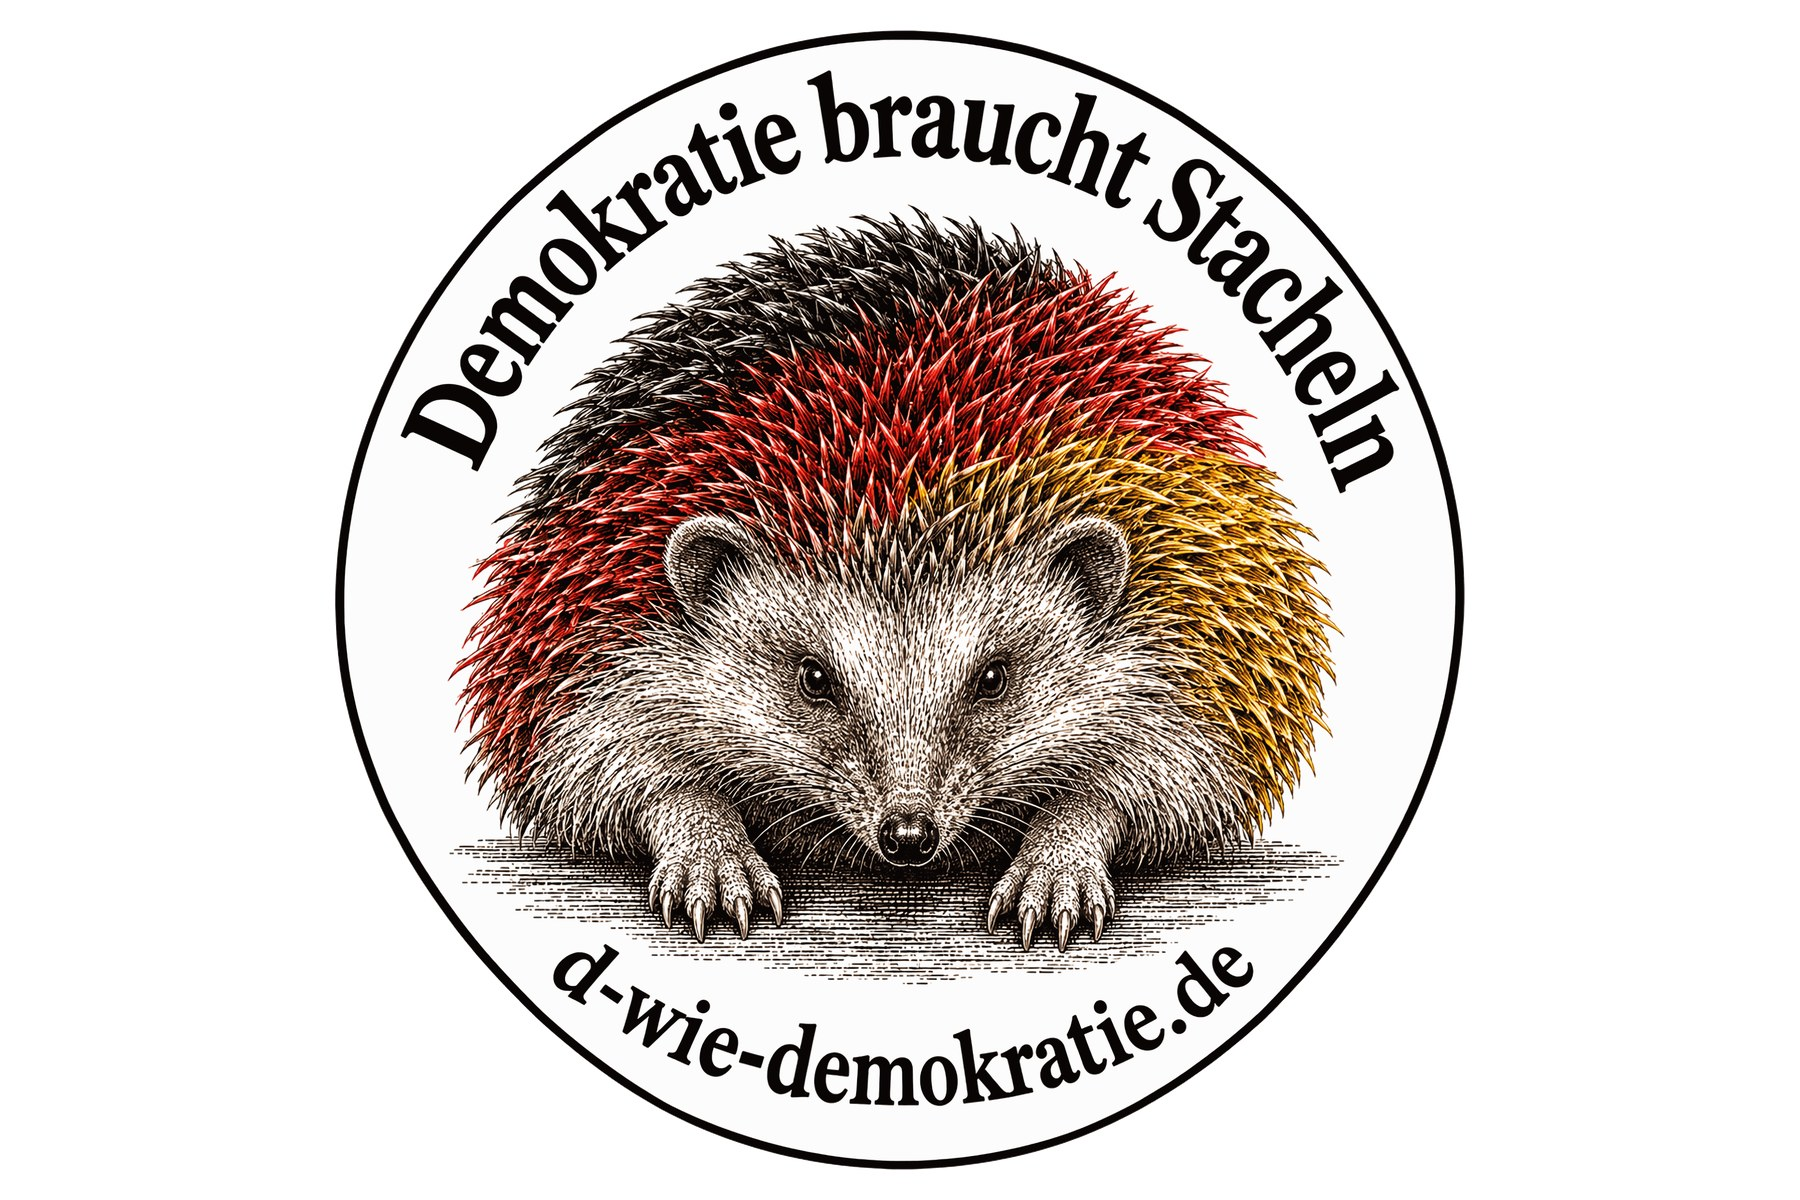
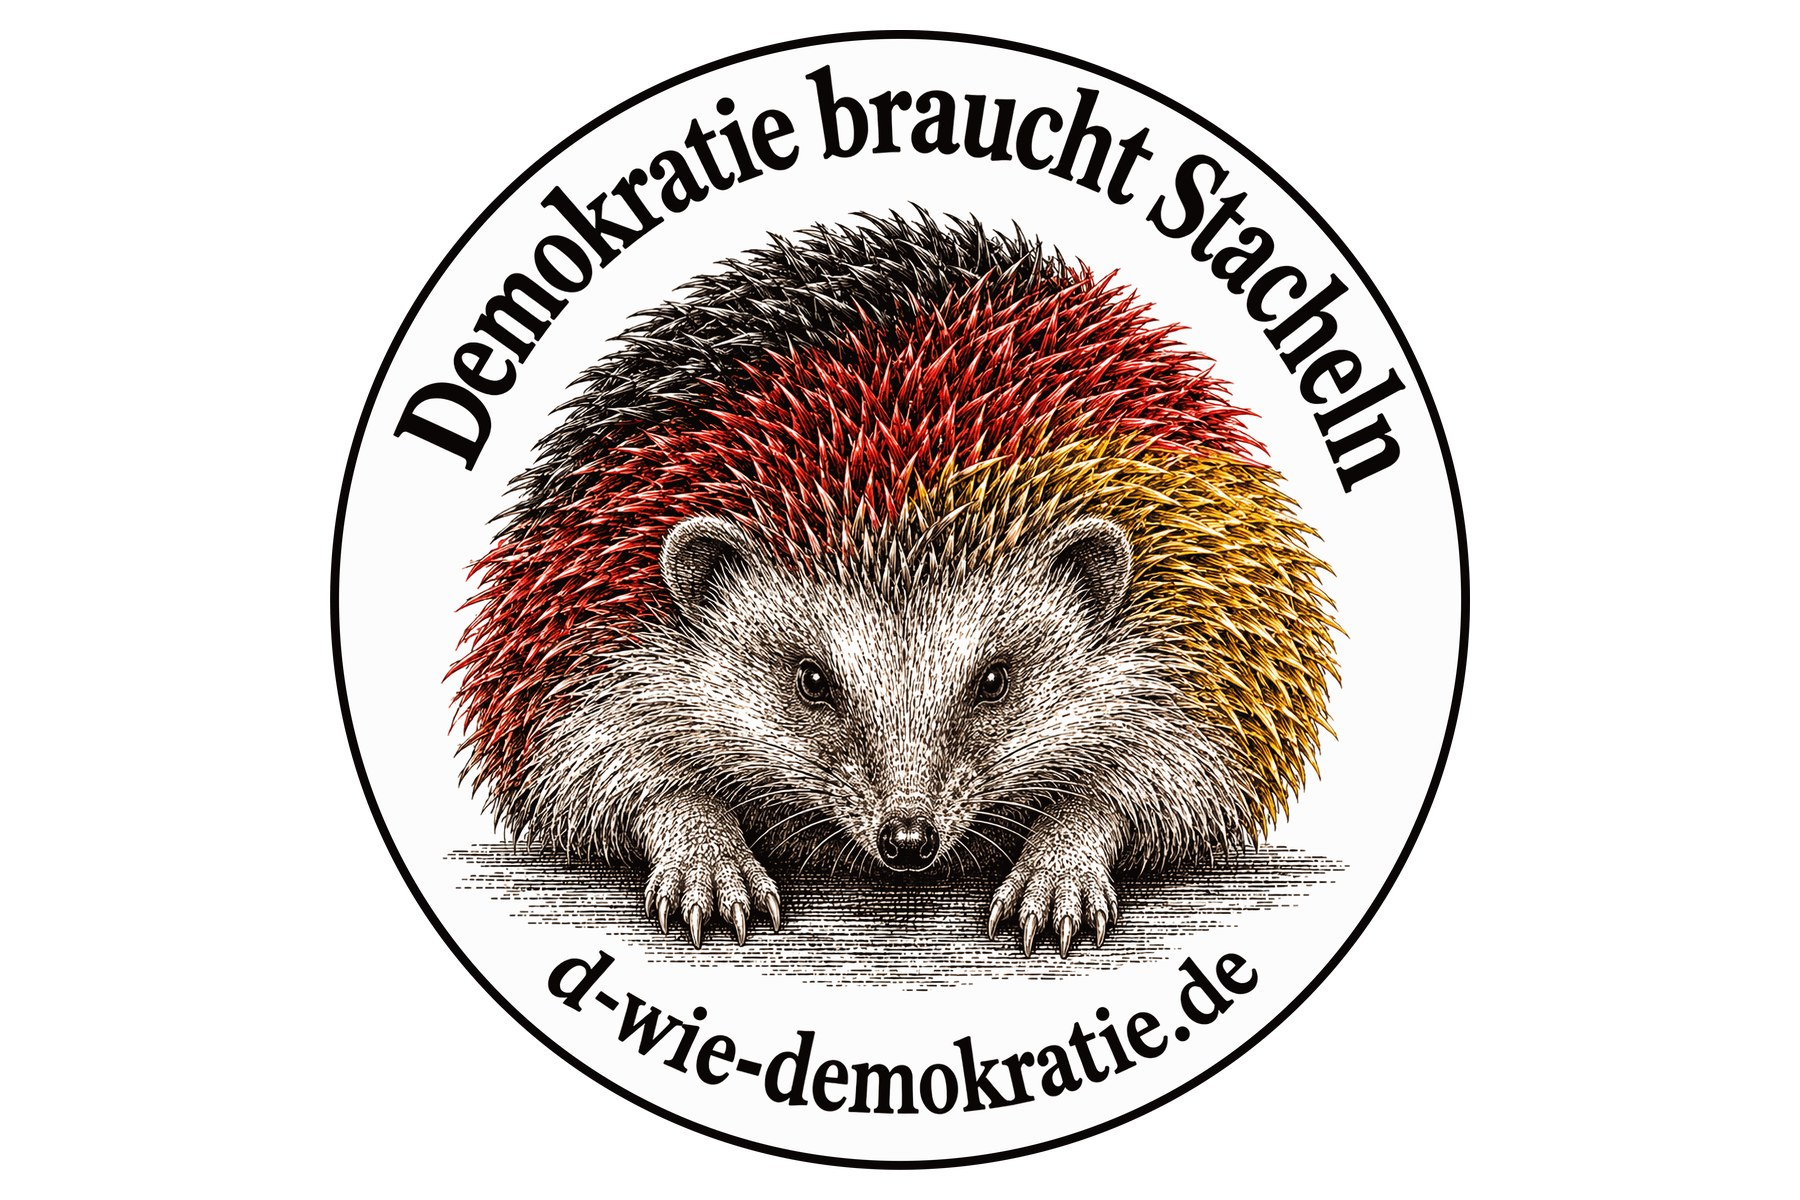
Runde Motive 3–10, 12: Außenring exakt kreisrund (Website-PNGs, Downloads, Slider), Skript kreis-rund.py

Changed region(s): [[0.1556, 0.0308, 0.8089, 0.9558], [0.7778, 0.4317, 0.84, 0.7092], [0.4356, 0.9558, 0.4667, 0.9867]]

diff --git a/scripts/kreis-rund.py b/scripts/kreis-rund.py
@@ -1,0 +1,94 @@
+# Aufruf: python3 scripts/kreis-rund.py <eingabe.png> <ausgabe.png>
+# Ersetzt den welligen äußeren Ring eines runden KI-Motivs durch einen exakt runden Ring gleicher Stärke (2026-11-23, Motive 3–10, 12 für die Website).
+# Macht den äußeren Ring eines runden Motivs exakt kreisrund.
+import sys, math
+from PIL import Image, PngImagePlugin
+src, dst = sys.argv[1], sys.argv[2]
+im = Image.open(src); info = dict(im.info); im = im.convert('RGBA')
+W, H = im.size; px = im.load()
+lum = lambda p: 0.299*p[0]+0.587*p[1]+0.114*p[2]
+# grober Mittelpunkt aus der Begrenzung
+l,t,r,b = im.getchannel('A').point(lambda v:255 if v>128 else 0).getbbox()
+cx0, cy0 = (l+r)/2, (t+b)/2
+N = 720
+def aussen(cx, cy):
+    pts=[]
+    for k in range(N):
+        a=2*math.pi*k/N; ca,sa=math.cos(a),math.sin(a)
+        rr=None
+        for s in range(int(min(W,H)*0.75), 0, -1):
+            x=int(cx+s*ca); y=int(cy+s*sa)
+            if 0<=x<W and 0<=y<H and px[x,y][3]>128: rr=s; break
+        pts.append((cx+rr*ca, cy+rr*sa, rr))
+    return pts
+pts = aussen(cx0, cy0)
+# Kreis-Anpassung (Kasa): x²+y² + D x + E y + F = 0
+Sx=Sy=Sxx=Syy=Sxy=Sz=Sxz=Syz=0.0; n=len(pts)
+for x,y,_ in pts:
+    z=x*x+y*y; Sx+=x; Sy+=y; Sxx+=x*x; Syy+=y*y; Sxy+=x*y; Sz+=z; Sxz+=x*z; Syz+=y*z
+A=[[Sxx,Sxy,Sx],[Sxy,Syy,Sy],[Sx,Sy,n]]; B=[-Sxz,-Syz,-Sz]
+def det(m): return (m[0][0]*(m[1][1]*m[2][2]-m[1][2]*m[2][1])-m[0][1]*(m[1][0]*m[2][2]-m[1][2]*m[2][0])+m[0][2]*(m[1][0]*m[2][1]-m[1][1]*m[2][0]))
+d=det(A); sol=[]
+for i in range(3):
+    M=[row[:] for row in A]
+    for j in range(3): M[j][i]=B[j]
+    sol.append(det(M)/d)
+D,E,F=sol; cx,cy=-D/2,-E/2; R=math.sqrt(cx*cx+cy*cy-F)
+pts = aussen(cx, cy)
+radien=[p[2] for p in pts]
+# Ringstärke: dunkle Pixel vom Außenrand nach innen
+dicken=[]
+for k in range(0,N,4):
+    a=2*math.pi*k/N; ca,sa=math.cos(a),math.sin(a); s=radien[k]; c=0
+    while s>0:
+        p=px[int(cx+s*ca),int(cy+s*sa)]
+        if p[3]>128 and lum(p)<110: c+=1; s-=1
+        elif c==0: s-=1
+        else: break
+    dicken.append(c)
+dicken.sort(); T=dicken[len(dicken)//2]
+dunkel=[px[int(cx+(radien[k]-T/2)*math.cos(2*math.pi*k/N)),int(cy+(radien[k]-T/2)*math.sin(2*math.pi*k/N))] for k in range(0,N,8)]
+dunkel.sort(key=lum); ring=dunkel[len(dunkel)//2][:3]
+abw=max(abs(x-R) for x in radien)
+# Innenkante des alten Rings je Richtung (dunkler Lauf von außen nach innen, mit Kantenglättung)
+innen=[]
+for k in range(N):
+    a_=2*math.pi*k/N; ca,sa=math.cos(a_),math.sin(a_); s=radien[k]; gesehen=False; lauf=0
+    while s>radien[k]-3*T:
+        p=px[int(cx+s*ca),int(cy+s*sa)]
+        if p[3]>128 and lum(p)<200: gesehen=True; lauf=0
+        elif gesehen:
+            lauf+=1
+            if lauf>=2: break
+        s-=1
+    innen.append(max(s+lauf, radien[k]-int(1.6*T)-3))  # nie tiefer als die übliche Ringstärke (Inhalt am Ring schützen)
+
+print(f'Mitte {cx:.0f},{cy:.0f} R {R:.0f} Ring {T} Abweichung max {abw:.0f}px Ringfarbe {ring}')
+innen_weiss=(255,255,255)
+# neues Bild: Fläche bis R+abw+4 bearbeiten
+r_in_neu=R-T
+for y in range(max(0,int(cy-R-abw-6)), min(H,int(cy+R+abw+6))):
+    for x in range(max(0,int(cx-R-abw-6)), min(W,int(cx+R+abw+6))):
+        dx=x+0.5-cx; dy=y+0.5-cy; rr=math.hypot(dx,dy)
+        if rr < r_in_neu - abw - 2*T - 6: continue
+        k=int((math.atan2(dy,dx)%(2*math.pi))/(2*math.pi)*N)%N
+        alt_aussen=radien[k]
+        aussen_cov=max(0.0,min(1.0,R-rr+0.5))      # Anteil innerhalb des neuen Außenrands
+        ring_cov=max(0.0,min(1.0,rr-r_in_neu+0.5))  # Anteil außerhalb des neuen Innenrands
+        if aussen_cov<=0: px[x,y]=(0,0,0,0); continue
+        p=px[x,y]
+        if ring_cov>0:
+            # im neuen Ring (mit Kantenglättung zur Innenseite)
+            base = p if rr<innen[k]-3 else (innen_weiss+(255,))
+            base = base if base[3]>0 else (innen_weiss+(255,))
+            c=tuple(int(ring[i]*ring_cov+base[i]*(1-ring_cov)) for i in range(3))
+            px[x,y]=c+(int(255*aussen_cov),)
+        else:
+            # innerhalb des neuen Rings: Reste des alten Rings weiß machen
+            if rr>=innen[k]-3 or p[3]<255:
+                px[x,y]=innen_weiss+(255,)
+q=im.quantize(256,method=Image.Quantize.FASTOCTREE,dither=Image.Dither.NONE).convert('RGBA')
+pi=PngImagePlugin.PngInfo()
+for k_,v in info.items():
+    if isinstance(v,str): pi.add_itxt(k_,v)
+q.save(dst,optimize=True,icc_profile=info.get('icc_profile'),pnginfo=pi)

diff --git a/CLAUDE.md b/CLAUDE.md
@@ -24,7 +24,7 @@ Push to `main` triggers GitHub Actions (`.github/workflows/deploy.yml`), which b
 
 - `src/layouts/Layout.astro`: shared `<head>` (meta, Open Graph, Umami script), sticky header with black-red-gold stripe and tab navigation, footer links. Global CSS variables live here. Also holds the tab order (`reiter`) used for swiping between tabs on mobile and for the slide animation (native cross-document View Transitions, only on touch devices); a new tab must be added there as well as in the nav. The ☰ menu at the right of the header lists all pages (array `menue`, plus Impressum/Datenschutz in `menueKlein`); a new page without its own tab only goes there, and such a page gets its own red-underlined tab for the current page (`aktuell`): on phones it replaces „Motive“ (short name `handy`, e.g. „Einreichen“, „Geschichte“), from 700 px it sits after „Motive“ (name `kurz`, e.g. „Flaggengeschichte“). Tabs since 2026-11-18: logo (start), Fragen, Verbündete, Motive; „Mitmachen“ and „Unterstützen“ are only in the ☰ menu. These tabs are not part of `reiter`/swiping. Pages not in the menu (Statistik) mark the ☰ with the red bar instead. Header widths are tuned so everything fits from 320 px; re-measure after changing tab names.
 - `src/pages/index.astro`: landing page: photo slider at the top (crossfade every few seconds; arrows ‹ › beside the line „Motiv N von M“ below and the arrow keys step through and stop it, since 2026-11-22 instead of dots; no swipe, that switches tabs; `bilder` array at the top, files in `src/assets/slider/`, new ones 1800 × 1200 px JPEG named `motiv-<nr>-<was>.jpg`; each photo links to `/motive/#motiv-<nr>` of the motif it shows; since 2026-11-21 a mix of two AI photos and three motif slides (`07-motiv-7.jpg` etc., since 2026-11-22 motif as large as possible on white without text, built from the print PNGs with `scripts/slider-querformate.py`; the line below each image („Motiv <nr> von <anzahl>“) is HTML, field `text` in `bilder`, no AI label); the AI photos are to be replaced by real photos of shirts; the AI photos carry the visible "KI-generiert" note (Art. 50 AI Act, must stay visible, not behind a click) for entries with `foto: true`), then visible h1 „Wir zeigen Flagge“, the values with links to Art. 1–5 GG, a box styled as the flag (black-red-gold stripes, with the 1990 Reichstag photo as a grey watermark; its credit sits below the box) that rotates quotes (array `zitate` at the top: Klopp, Steinmeier …; each with an `id` such as `zitat-aigner`, so `/#zitat-aigner` shows that quote and stops the rotation; each with a button to the video or speech, only linked, not embedded; Klopp's video also linked in FAQ `#farben`), then a preview of all motifs (thumbnails of the first version, each linking to `/motive/#motiv-<nr>`; later only the newest). Old anchors `/#motiv-<nr>`, `/#motive`, `/#herunterladen` and `/#shop` are forwarded to `/motive/` by an inline script.
-- `src/pages/motive.astro`: tab „Motive“ (since 2026-11-18): intro (we want many motifs, from children, artists, designers …; link to „Motiv einreichen“), then two accordion questions (`<details>`, `#herunterladen` and `#shop` open them; download terms: print and share freely, don't alter; shop: Spreadshop by Spreadshirt (Leipzig) https://d-wie-demokratie.myspreadshop.de/, set up as Non-Profit-Shop (margin 0, customer pays Spreadshirt's base price), only organic-cotton textiles (mostly Stanley/Stella); Spreadshirt is the seller, 30-day return/exchange; linked from the question (button) and per motif or per version (`shop` in `liste` or in a `varianten` entry, `/all?mainDesignId=<id>`; switch `shopAktiv`), not embedded, so the site stays free of third-party cookies; biotshirt (YTWOO, Düsseldorf) was linked 2026-11-12 to 2026-11-18 and dropped because it accepts no returns (texts in commit 7918eb7); wording rule: never call products „GOTS-zertifiziert“, only say what the product pages state, e.g. „aus Bio-Baumwolle“) then the numbered motifs one under another (list `liste` in `src/data/motive.ts`, shared with the landing-page preview, each linkable via `/motive/#motiv-<nr>`), each with links to PNG, PDF and its shop search. Per motif: PNG `src/assets/motive/d-wie-demokratie-motiv-<nr>.png` (4000 px, transparent; thumbnail and download) and PDF `public/download/d-wie-demokratie-motiv-<nr>.pdf` (CMYK); a motif only shows once its PNG exists, a missing PDF or shop link just drops that link. Klaus keeps all motif files (PDF and PNG, same name) in `motive/` (gitignored working folder, a mirror of the published files) and exports there from Affinity; when he says so, Claude compares it with `src/assets/motive/` and `public/download/`, checks only new or changed files (size, transparency, sRGB, PDF/X-4, FOGRA39, exact CMYK values, no layers, no images) and copies them over. Numbers are only given to finished motifs (print PNG exists), in order of completion; drafts never get a number. A draft has `bald: true` and `id` (anchor `/motive/#<id>`, preview file `src/assets/motive/bald/<id>.png`, Klaus's AI draft with the white outside made transparent), shows without number below the finished motifs with a gold „Kommt bald“ badge instead of download/shop links, and is left out of the landing-page preview (none at the moment; the blackbird „Oh Ei, oh Ei!“ was dropped 2026-11-21 as too negative). When a draft is finished: delete `bald`/`id`, give it the next free `nr`, put the PNG in place. Motiv 3 „Gesunde Vielfalt“ (until 2026-11-21 „Vitamin D“, same fruit picture), 4 „Demokratie braucht Schutz“ 5 „Demokratie braucht Stacheln“ 6 „Demokratie braucht Schärfe“ 7 „Dackel lieben Demokratie“ 8 „Farbe bekennen!“ 9 „Alles wird Hut“ 10 „Keine Angst, Hasen!“ 11 „Entchen gut, alles gut“ (oval, 4000 × 2667) 12 „Hinschauen. Zuhören. Mund aufmachen.“ (2026-11-21) 13 „DEMO“ (2026-11-22, banner carried by walking letters KRATIE; URL set by Klaus in Affinity; `-dunkel` = same on a white rounded rectangle, since the black letters vanish on dark fabric) and 14 „Schnurren war gestern“ (2026-11-22, woodcut tiger, text set by Klaus in Affinity; `-dunkel` = text white) are PNG only, with embedded metadata (title, creator D wie Demokratie, contact info@d-wie-demokratie.de, usage note „frei drucken und teilen, nicht verändern“ in the copyright field; no © claim since purely AI-generated images are generally not protected in Germany) (ChatGPT image, upscaled to 4000 px in Photoshop with „Details erhalten 2.0“, white outside made transparent, reduced to 256 colours to stay under Spreadshirt's 10 MB limit). A motif can have several versions (`varianten` in `liste`, each with an `endung`; `versteckt: true` hides a version while its files stay, used since 2026-11-18 for both `-farbig` versions such as `-qr-weiss` or `-dunkel`, a button name and a short text): files `d-wie-demokratie-motiv-<nr><endung>.png` (in `src/assets/motive/`) and `.pdf` (in `public/download/`), same name, only the extension differs; buttons switch between them (without JS all are listed), each version is previewed on a checkerboard in the tone of the fabric it is meant for (since 2026-11-23, shows transparency): light checkerboard for „helle“ versions, blue-grey for „alle“ versions and for the single-version round motifs 3–12, anthracite for „dunkle“ (`grundStoff`, `karo()`, `einzelStoff()` in motive.astro); `-farbig` („Für mittlere Untergründe“) mid blue, `-dunkel` („Für dunkle Untergründe“, with white outline) anthracite (map `stoff`), or an explicit `stoff` per version (Motiv 1 „Für alle Untergründe“, white oval: mid blue-grey). PDF links carry a content hash (`?v=`) so a replaced PDF is never served from browser cache. `public/download/d-wie-demokratie-oval.png/.pdf` are kept for old links.
+- `src/pages/motive.astro`: tab „Motive“ (since 2026-11-18): intro (we want many motifs, from children, artists, designers …; link to „Motiv einreichen“), then two accordion questions (`<details>`, `#herunterladen` and `#shop` open them; download terms: print and share freely, don't alter; shop: Spreadshop by Spreadshirt (Leipzig) https://d-wie-demokratie.myspreadshop.de/, set up as Non-Profit-Shop (margin 0, customer pays Spreadshirt's base price), only organic-cotton textiles (mostly Stanley/Stella); Spreadshirt is the seller, 30-day return/exchange; linked from the question (button) and per motif or per version (`shop` in `liste` or in a `varianten` entry, `/all?mainDesignId=<id>`; switch `shopAktiv`), not embedded, so the site stays free of third-party cookies; biotshirt (YTWOO, Düsseldorf) was linked 2026-11-12 to 2026-11-18 and dropped because it accepts no returns (texts in commit 7918eb7); wording rule: never call products „GOTS-zertifiziert“, only say what the product pages state, e.g. „aus Bio-Baumwolle“) then the numbered motifs one under another (list `liste` in `src/data/motive.ts`, shared with the landing-page preview, each linkable via `/motive/#motiv-<nr>`), each with links to PNG, PDF and its shop search. Per motif: PNG `src/assets/motive/d-wie-demokratie-motiv-<nr>.png` (4000 px, transparent; thumbnail and download) and PDF `public/download/d-wie-demokratie-motiv-<nr>.pdf` (CMYK); a motif only shows once its PNG exists, a missing PDF or shop link just drops that link. Klaus keeps all motif files (PDF and PNG, same name) in `motive/` (gitignored working folder, a mirror of the published files) and exports there from Affinity; when he says so, Claude compares it with `src/assets/motive/` and `public/download/`, checks only new or changed files (size, transparency, sRGB, PDF/X-4, FOGRA39, exact CMYK values, no layers, no images) and copies them over. Numbers are only given to finished motifs (print PNG exists), in order of completion; drafts never get a number. A draft has `bald: true` and `id` (anchor `/motive/#<id>`, preview file `src/assets/motive/bald/<id>.png`, Klaus's AI draft with the white outside made transparent), shows without number below the finished motifs with a gold „Kommt bald“ badge instead of download/shop links, and is left out of the landing-page preview (none at the moment; the blackbird „Oh Ei, oh Ei!“ was dropped 2026-11-21 as too negative). Since 2026-11-23 the website PNGs of the round motifs 3–10 and 12 have an exactly circular outer ring (made with `scripts/kreis-rund.py`, the AI rings were wavy); the files in `motive/` and the Spreadshop designs still have the old rings until Klaus reworks each motif. When a draft is finished: delete `bald`/`id`, give it the next free `nr`, put the PNG in place. Motiv 3 „Gesunde Vielfalt“ (until 2026-11-21 „Vitamin D“, same fruit picture), 4 „Demokratie braucht Schutz“ 5 „Demokratie braucht Stacheln“ 6 „Demokratie braucht Schärfe“ 7 „Dackel lieben Demokratie“ 8 „Farbe bekennen!“ 9 „Alles wird Hut“ 10 „Keine Angst, Hasen!“ 11 „Entchen gut, alles gut“ (oval, 4000 × 2667) 12 „Hinschauen. Zuhören. Mund aufmachen.“ (2026-11-21) 13 „DEMO“ (2026-11-22, banner carried by walking letters KRATIE; URL set by Klaus in Affinity; `-dunkel` = same on a white rounded rectangle, since the black letters vanish on dark fabric) and 14 „Schnurren war gestern“ (2026-11-22, woodcut tiger, text set by Klaus in Affinity; `-dunkel` = text white) are PNG only, with embedded metadata (title, creator D wie Demokratie, contact info@d-wie-demokratie.de, usage note „frei drucken und teilen, nicht verändern“ in the copyright field; no © claim since purely AI-generated images are generally not protected in Germany) (ChatGPT image, upscaled to 4000 px in Photoshop with „Details erhalten 2.0“, white outside made transparent, reduced to 256 colours to stay under Spreadshirt's 10 MB limit). A motif can have several versions (`varianten` in `liste`, each with an `endung`; `versteckt: true` hides a version while its files stay, used since 2026-11-18 for both `-farbig` versions such as `-qr-weiss` or `-dunkel`, a button name and a short text): files `d-wie-demokratie-motiv-<nr><endung>.png` (in `src/assets/motive/`) and `.pdf` (in `public/download/`), same name, only the extension differs; buttons switch between them (without JS all are listed), each version is previewed on a checkerboard in the tone of the fabric it is meant for (since 2026-11-23, shows transparency): light checkerboard for „helle“ versions, blue-grey for „alle“ versions and for the single-version round motifs 3–12, anthracite for „dunkle“ (`grundStoff`, `karo()`, `einzelStoff()` in motive.astro); `-farbig` („Für mittlere Untergründe“) mid blue, `-dunkel` („Für dunkle Untergründe“, with white outline) anthracite (map `stoff`), or an explicit `stoff` per version (Motiv 1 „Für alle Untergründe“, white oval: mid blue-grey). PDF links carry a content hash (`?v=`) so a replaced PDF is never served from browser cache. `public/download/d-wie-demokratie-oval.png/.pdf` are kept for old links.
 - `src/pages/haeufige-fragen.astro`: FAQ page, including who started the initiative; the biography with portrait (`src/assets/klaus-p-wolf.jpg`) is collapsed until the name is clicked (open without JavaScript); `/haeufige-fragen/#wer` (and `#lebenslauf`) open the question and the biography.
 - `src/pages/verbuendete.astro`: tab „Verbündete“ („Wir sind Verbündete“: people, organisations, firms that share our values), array `verbuendete` at the top, grouped by `art`; „Werte und Ziele“ in the lead opens the values (shared component `src/components/Werte.astro`, also used on the landing page) and our three goals, `#werte` opens it; each entry optionally with `zusatz`, `url`, `zitat` and `logo` (files in `src/assets/verbuendete/`). Only add entries after checking them and with written consent (published under Art. 6 (1) a GDPR, see section 4 of `datenschutz.astro`). While the array is empty a „ganz neu“ note shows. Sign-up (since 2026-11-22) via a form in `#eintragen` (only with JS; Person: Titel/Vorname/Nachname, Organisation: name sent as lastName; Tätigkeit und Ort required, Website, Satz, e-mail, consent checkbox, for organisations „darf sprechen“; honeypot + 4-second minimum) that POSTs JSON to the EspoCRM Lead Capture „Verbündete“ (`anfrageUrl`, custom Lead fields cArt, cTitel, cTaetigkeit, cSatz, cVertretung; target list „Verbündete – Anfragen“; double opt-in mail from info@ via template „Bestätigung Verbündete“; EspoCRM sends the CORS headers itself). Nothing is published automatically: Klaus checks the lead, then the entry is added to `verbuendete`. Unconfirmed or unpublished requests are deleted after three months (section 4 of `datenschutz.astro`). E-mail stays as alternative; Umami `verbuendete-formular` and `email-verbuendete`. „Unterstützen“ has no tab anymore, only the ☰ menu.
 - `src/pages/unterstuetzen.astro`: supporters page (who we are looking for); formerly `/unterstuetzer/`, which redirects here.
